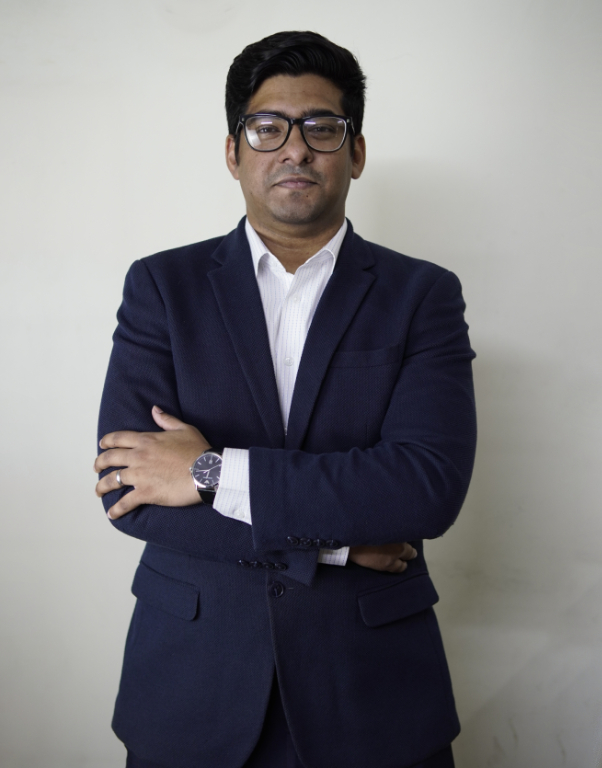
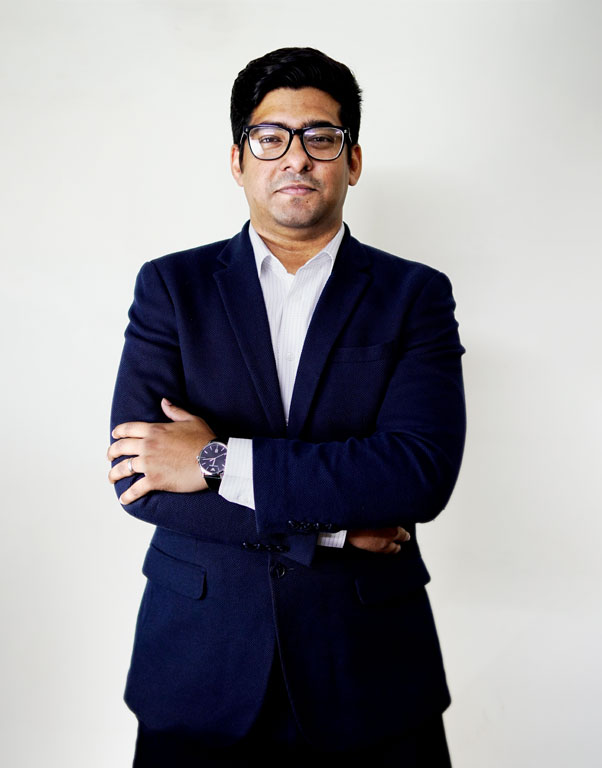
Update gallery images to local files and adjust image links

diff --git a/team.html b/team.html
@@ -96,6 +96,7 @@
               display: block;
               width: 100%;
               height: auto;
+              transition: opacity 0.4s ease-in-out;
             }
           
             /* Hover image positioned on top, initially invisible */
@@ -174,8 +175,8 @@
                     <div class="row align-items-center mb-5 xs-mb-30px">
                         <div class="col-12 text-center">
                             <div class="team-container1 mx-auto mb-3">
-                                <img style="border-radius: 25px;" id="team1" src="images/team-main.JPG" class="team-img" alt="Asadot Daullah">
-                                <img style="border-radius: 25px;" id="hoverTeam1" src="images/team-hover.JPG" class="hover-img" alt="Asadot Daullah Hover">
+                                <img style="border-radius: 25px;" id="team1" src="images/team_images/asad.jpg" class="team-img" alt="Asadot Daullah">
+                                <img style="border-radius: 25px;" id="hoverTeam1" src="images/team_images/asad.jpg" class="hover-img" alt="Asadot Daullah Hover">
                             </div>
                             <h5 class="text-dark-gray fw-600">Asadot Daullah</h5>
                             <p class="text-gray fw-400 font-20px" style="margin-top: -20px;">Managing Director</p>
@@ -186,16 +187,16 @@
                     <div class="row align-items-center mb-5 xs-mb-30px justify-content-center">
                         <div class="col-md-5 text-center">
                             <div class="team-container2 mx-auto mb-3">
-                                <img style="border-radius: 25px;" id="team2" src="images/team-main.JPG" class="team-img" alt="Mohammad Abu Torab">
-                                <img style="border-radius: 25px;" id="hoverTeam2" src="images/team-hover.JPG" class="hover-img" alt="Mohammad Abu Torab Hover">
+                                <img style="border-radius: 25px;" id="team2" src="images/team_images/torab.jpg" class="team-img" alt="Mohammad Abu Torab">
+                                <img style="border-radius: 25px;" id="hoverTeam2" src="images/team_images/torab.jpg" class="hover-img" alt="Mohammad Abu Torab Hover">
                             </div>
                             <h5 class="text-dark-gray fw-600">Mohammad Abu Torab</h5>
                             <p class="text-gray fw-400 font-20px" style="margin-top: -20px;">Director</p>
                         </div>
                         <div class="col-md-5 text-center">
                             <div class="team-container3 mx-auto mb-3">
-                                <img style="border-radius: 25px;" id="team3" src="images/team-main.JPG" class="team-img" alt="Rezaul Hasan">
-                                <img style="border-radius: 25px;" id="hoverTeam3" src="images/team-hover.JPG" class="hover-img" alt="Rezaul Hasan Hover">
+                                <img style="border-radius: 25px;" id="team3" src="images/team_images/ripon.jpg" class="team-img" alt="Rezaul Hasan">
+                                <img style="border-radius: 25px;" id="hoverTeam3" src="images/team_images/ripon.jpg" class="hover-img" alt="Rezaul Hasan Hover">
                             </div>
                             <h5 class="text-dark-gray fw-600">Rezaul Hasan</h5>
                             <p class="text-gray fw-400 font-20px" style="margin-top: -20px;">Director</p>
@@ -206,34 +207,34 @@
                     <div class="row align-items-center mb-5 xs-mb-30px">
                         <div class="col-md-3 text-center">
                             <div class="team-container4 mx-auto mb-3">
-                                <img style="border-radius: 25px;" id="team4" src="images/team-main.JPG" class="team-img" alt="William Amitav Dobey">
-                                <img style="border-radius: 25px;" id="hoverTeam4" src="images/team-hover.JPG" class="hover-img" alt="William Amitav Dobey Hover">
+                                <img style="border-radius: 25px;" id="team4" src="images/team_images/amit_stand.jpg" class="team-img" alt="William Amitav Dobey">
+                                <img style="border-radius: 25px;" id="hoverTeam4" src="images/team_images/amit_hold.jpg" class="hover-img" alt="William Amitav Dobey Hover">
                             </div>
                             <h5 class="text-dark-gray fw-600">William Amitav Dobey</h5>
                             <p class="text-gray fw-400 font-20px" style="margin-top: -20px;">Deputy General Manager</p>
                         </div>
                         <div class="col-md-3 text-center">
                             <div class="team-container5 mx-auto mb-3">
-                                <img style="border-radius: 25px;" id="team5" src="images/team-main.JPG" class="team-img" alt="Golam Mostafa Sumon">
-                                <img style="border-radius: 25px;" id="hoverTeam5" src="images/team-hover.JPG" class="hover-img" alt="Golam Mostafa Sumon Hover">
+                                <img style="border-radius: 25px;" id="team5" src="images/team_images/p1_stand.jpg" class="team-img" alt="Golam Mostafa Sumon">
+                                <img style="border-radius: 25px;" id="hoverTeam5" src="images/team_images/p1_hold.jpg" class="hover-img" alt="Golam Mostafa Sumon Hover">
                             </div>
                             <h5 class="text-dark-gray fw-600">Golam Mostafa Sumon</h5>
                             <p class="text-gray fw-400 font-20px" style="margin-top: -20px;">Asst. General Manager, Marketing</p>
                         </div>
                         <div class="col-md-3 text-center">
                             <div class="team-container6 mx-auto mb-3">
-                                <img style="border-radius: 25px;" id="team6" src="images/team-main.JPG" class="team-img" alt="Mohammad Arifur Rahman">
-                                <img style="border-radius: 25px;" id="hoverTeam6" src="images/team-hover.JPG" class="hover-img" alt="Mohammad Arifur Rahman Hover">
+                                <img style="border-radius: 25px;" id="team6" src="images/team_images/p2_stand.jpg" class="team-img" alt="Mohammad Arifur Rahman">
+                                <img style="border-radius: 25px;" id="hoverTeam6" src="images/team_images/p2_hold.jpg" class="hover-img" alt="Mohammad Arifur Rahman Hover">
                             </div>
                             <h5 class="text-dark-gray fw-600">Mohammad Arifur Rahman</h5>
                             <p class="text-gray fw-400 font-20px" style="margin-top: -20px;">Asst. Manager-Sales</p>
                         </div>
                         <div class="col-md-3 text-center">
                             <div class="team-container7 mx-auto mb-3">
-                                <img style="border-radius: 25px;" id="team7" src="images/team-main.JPG" class="team-img" alt="Md. A. J. Pahlawan">
-                                <img style="border-radius: 25px;" id="hoverTeam7" src="images/team-hover.JPG" class="hover-img" alt="Md. A. J. Pahlawan Hover">
+                                <img style="border-radius: 25px;" id="team7" src="images/team_images/p3_stand.jpg" class="team-img" alt="Md. A. J. Pahlawan">
+                                <img style="border-radius: 25px;" id="hoverTeam7" src="images/team_images/p3_hold.jpg" class="hover-img" alt="Md. A. J. Pahlawan Hover">
                             </div>
-                            <h5 class="text-dark-gray fw-600">Md. A. J. Pahlawan</h5>
+                            <h5 class="text-dark-gray fw-600">Md. A. J.<br>Pahlawan</h5>
                             <p class="text-gray fw-400 font-20px" style="margin-top: -20px;">Asst. Manager-Sales</p>
                         </div>
                     </div>
@@ -242,24 +243,24 @@
                     <div class="row align-items-center mb-5 xs-mb-30px justify-content-center">
                         <div class="col-md-4 text-center">
                             <div class="team-container8 mx-auto mb-3">
-                                <img style="border-radius: 25px;" id="team8" src="images/team-main.JPG" class="team-img" alt="Md. Hasiur Rahman Hadi">
-                                <img style="border-radius: 25px;" id="hoverTeam8" src="images/team-hover.JPG" class="hover-img" alt="Md. Hasiur Rahman Hadi Hover">
+                                <img style="border-radius: 25px;" id="team8" src="images/team_images/p4_stand.jpg" class="team-img" alt="Md. Hasiur Rahman Hadi">
+                                <img style="border-radius: 25px;" id="hoverTeam8" src="images/team_images/p4_hold.jpg" class="hover-img" alt="Md. Hasiur Rahman Hadi Hover">
                             </div>
                             <h5 class="text-dark-gray fw-600">Md. Hasiur Rahman Hadi</h5>
                             <p class="text-gray fw-400 font-20px" style="margin-top: -20px;">Asst. Manager-Sales</p>
                         </div>
                         <div class="col-md-4 text-center">
                             <div class="team-container9 mx-auto mb-3">
-                                <img style="border-radius: 25px;" id="team9" src="images/team-main.JPG" class="team-img" alt="Naim Mahmud">
-                                <img style="border-radius: 25px;" id="hoverTeam9" src="images/team-hover.JPG" class="hover-img" alt="Naim Mahmud Hover">
+                                <img style="border-radius: 25px;" id="team9" src="images/team_images/p5_stand.jpg" class="team-img" alt="Naim Mahmud">
+                                <img style="border-radius: 25px;" id="hoverTeam9" src="images/team_images/p5_hold.jpg" class="hover-img" alt="Naim Mahmud Hover">
                             </div>
                             <h5 class="text-dark-gray fw-600">Naim Mahmud</h5>
                             <p class="text-gray fw-400 font-20px" style="margin-top: -20px;">Officer, Marketing</p>
                         </div>
                         <div class="col-md-4 text-center">
                             <div class="team-container10 mx-auto mb-3">
-                                <img style="border-radius: 25px;" id="team10" src="images/team-main.JPG" class="team-img" alt="Nurul Karim">
-                                <img style="border-radius: 25px;" id="hoverTeam10" src="images/team-hover.JPG" class="hover-img" alt="Nurul Karim Hover">
+                                <img style="border-radius: 25px;" id="team10" src="images/team_images/p6_stand.jpg" class="team-img" alt="Nurul Karim">
+                                <img style="border-radius: 25px;" id="hoverTeam10" src="images/team_images/p6_hold.jpg" class="hover-img" alt="Nurul Karim Hover">
                             </div>
                             <h5 class="text-dark-gray fw-600">Nurul Karim</h5>
                             <p class="text-gray fw-400 font-20px" style="margin-top: -20px;">Sr. Officer-Sales</p>
@@ -270,18 +271,18 @@
                     <div class="row align-items-center mb-5 xs-mb-30px justify-content-center">
                         <div class="col-md-5 text-center">
                             <div class="team-container11 mx-auto mb-3">
-                                <img style="border-radius: 25px;" id="team11" src="images/team-main.JPG" class="team-img" alt="Md. Sheikh Nobi">
-                                <img style="border-radius: 25px;" id="hoverTeam11" src="images/team-hover.JPG" class="hover-img" alt="Md. Sheikh Nobi Hover">
+                                <img style="border-radius: 25px;" id="team11" src="images/team_images/albab_hold_bg.jpg" class="team-img" alt="Md. Sheikh Nobi">
+                                <img style="border-radius: 25px;" id="hoverTeam11" src="images/team_images/albab_stand_bg.jpg" class="hover-img" alt="Md. Sheikh Nobi Hover">
                             </div>
                             <h5 class="text-dark-gray fw-600">Md. Sheikh Nobi</h5>
                             <p class="text-gray fw-400 font-20px" style="margin-top: -20px;">Officer, Marketing</p>
                         </div>
                         <div class="col-md-5 text-center">
                             <div class="team-container12 mx-auto mb-3">
-                                <img style="border-radius: 25px;" id="team12" src="images/team_images/albab_stand.JPG" class="team-img" alt="Alabab Tanim">
-                                <img style="border-radius: 25px;" id="hoverTeam12" src="images/team_images/albab_hold.JPG" class="hover-img" alt="Alabab Tanim Hover">
+                                <img style="border-radius: 25px;" id="team12" src="images/team_images/albab_stand.JPG" class="team-img" alt="Albab Tanim">
+                                <img style="border-radius: 25px;" id="hoverTeam12" src="images/team_images/albab_hold.JPG" class="hover-img" alt="Albab Tanim Hover">
                             </div>
-                            <h5 class="text-dark-gray fw-600">Alabab Tanim</h5>
+                            <h5 class="text-dark-gray fw-600">Albab Tanim</h5>
                             <p class="text-gray fw-400 font-20px" style="margin-top: -20px;">Manager-Business Development</p>
                         </div>
                     </div>
@@ -290,32 +291,32 @@
                     <div class="row align-items-center mb-5 xs-mb-30px">
                       <div class="col-md-3 text-center">
                           <div class="team-container13 mx-auto mb-3">
-                              <img style="border-radius: 25px;" id="team13" src="images/team-main.JPG" class="team-img" alt="William Amitav Dobey">
-                              <img style="border-radius: 25px;" id="hoverTeam13" src="images/team-hover.JPG" class="hover-img" alt="William Amitav Dobey Hover">
+                              <img style="border-radius: 25px;" id="team13" src="images/team_images/p7_stand.jpg" class="team-img" alt="William Amitav Dobey">
+                              <img style="border-radius: 25px;" id="hoverTeam13" src="images/team_images/p7_hold.jpg" class="hover-img" alt="William Amitav Dobey Hover">
                           </div>
                           <h5 class="text-dark-gray fw-600">Rezaur Rahman</h5>
                           <p class="text-gray fw-400 font-20px" style="margin-top: -20px;">Manager</p>
                       </div>
                       <div class="col-md-3 text-center">
                           <div class="team-container14 mx-auto mb-3">
-                              <img style="border-radius: 25px;" id="team14" src="images/team-main.JPG" class="team-img" alt="Golam Mostafa Sumon">
-                              <img style="border-radius: 25px;" id="hoverTeam14" src="images/team-hover.JPG" class="hover-img" alt="Golam Mostafa Sumon Hover">
+                              <img style="border-radius: 25px;" id="team14" src="images/team_images/p8_stand.jpg" class="team-img" alt="Golam Mostafa Sumon">
+                              <img style="border-radius: 25px;" id="hoverTeam14" src="images/team_images/p8_hold.jpg" class="hover-img" alt="Golam Mostafa Sumon Hover">
                           </div>
                           <h5 class="text-dark-gray fw-600">Reshma Parvin</h5>
                           <p class="text-gray fw-400 font-20px" style="margin-top: -20px;">Officer, Marketing</p>
                       </div>
                       <div class="col-md-3 text-center">
                           <div class="team-container15 mx-auto mb-3">
-                              <img style="border-radius: 25px;" id="team15" src="images/team-main.JPG" class="team-img" alt="Mohammad Arifur Rahman">
-                              <img style="border-radius: 25px;" id="hoverTeam15" src="images/team-hover.JPG" class="hover-img" alt="Mohammad Arifur Rahman Hover">
+                              <img style="border-radius: 25px;" id="team15" src="images/team_images/p9_stand.jpg" class="team-img" alt="Mohammad Arifur Rahman">
+                              <img style="border-radius: 25px;" id="hoverTeam15" src="images/team_images/p9_hold.jpg" class="hover-img" alt="Mohammad Arifur Rahman Hover">
                           </div>
                           <h5 class="text-dark-gray fw-600">Md Sohel Rana</h5>
                           <p class="text-gray fw-400 font-20px" style="margin-top: -20px;">Deputy Manager, Accounts & Finance</p>
                       </div>
                       <div class="col-md-3 text-center">
                           <div class="team-container16 mx-auto mb-3">
-                              <img style="border-radius: 25px;" id="team16" src="images/team-main.JPG" class="team-img" alt="Md. A. J. Pahlawan">
-                              <img style="border-radius: 25px;" id="hoverTeam16" src="images/team-hover.JPG" class="hover-img" alt="Md. A. J. Pahlawan Hover">
+                              <img style="border-radius: 25px;" id="team16" src="images/team_images/p10_stand.jpg" class="team-img" alt="Md. A. J. Pahlawan">
+                              <img style="border-radius: 25px;" id="hoverTeam16" src="images/team_images/p10_hold.jpg" class="hover-img" alt="Md. A. J. Pahlawan Hover">
                           </div>
                           <h5 class="text-dark-gray fw-600">Md Mohiuddin Raju</h5>
                           <p class="text-gray fw-400 font-20px" style="margin-top: -20px;">Accountant</p>

diff --git a/gallery.html b/gallery.html
@@ -79,9 +79,9 @@
                           <!-- start gallery item -->
                           <li class="grid-item transition-inner-all">
                               <div class="gallery-box border-radius-6px">
-                                  <a href="https://placehold.co/800x946" data-group="lightbox-gallery" title="Lightbox gallery image title">
+                                  <a href="images/gallery/1.jpg" data-group="lightbox-gallery" title="Lightbox gallery image title">
                                       <div class="position-relative gallery-image bg-dark-gray overflow-hidden">
-                                          <img src="https://placehold.co/800x946" alt="" />
+                                          <img src="images/gallery/1.jpg" alt="" />
                                           <div class="d-flex align-items-center justify-content-center position-absolute top-0px left-0px w-100 h-100 gallery-hover move-bottom-top">
                                               <div class="d-flex align-items-center justify-content-center w-60px h-60px rounded-circle bg-white">
                                                   <i class="icon feather icon-feather-search icon-extra-medium text-dark-gray"></i>
@@ -95,9 +95,9 @@
                           <!-- start gallery item -->
                           <li class="grid-item transition-inner-all">
                               <div class="gallery-box border-radius-6px">
-                                  <a href="https://placehold.co/800x946" data-group="lightbox-gallery" title="Lightbox gallery image title">
+                                  <a href="images/gallery/2.jpg" data-group="lightbox-gallery" title="Lightbox gallery image title">
                                       <div class="position-relative gallery-image bg-dark-gray overflow-hidden">
-                                          <img src="https://placehold.co/800x946" alt="" />
+                                          <img src="images/gallery/2.jpg" alt="" />
                                           <div class="d-flex align-items-center justify-content-center position-absolute top-0px left-0px w-100 h-100 gallery-hover move-bottom-top">
                                               <div class="d-flex align-items-center justify-content-center w-60px h-60px rounded-circle bg-white">
                                                   <i class="icon feather icon-feather-search icon-extra-medium text-dark-gray"></i>
@@ -111,9 +111,9 @@
                           <!-- start gallery item -->
                           <li class="grid-item transition-inner-all">
                               <div class="gallery-box border-radius-6px">
-                                  <a href="https://placehold.co/800x946" data-group="lightbox-gallery" title="Lightbox gallery image title">
+                                  <a href="images/gallery/3.jpg" data-group="lightbox-gallery" title="Lightbox gallery image title">
                                       <div class="position-relative gallery-image bg-dark-gray overflow-hidden">
-                                          <img src="https://placehold.co/800x946" alt="" />
+                                          <img src="images/gallery/3.jpg" alt="" />
                                           <div class="d-flex align-items-center justify-content-center position-absolute top-0px left-0px w-100 h-100 gallery-hover move-bottom-top">
                                               <div class="d-flex align-items-center justify-content-center w-60px h-60px rounded-circle bg-white">
                                                   <i class="icon feather icon-feather-search icon-extra-medium text-dark-gray"></i>
@@ -127,9 +127,9 @@
                           <!-- start gallery item -->
                           <li class="grid-item transition-inner-all">
                               <div class="gallery-box border-radius-6px">
-                                  <a href="https://placehold.co/800x946" data-group="lightbox-gallery" title="Lightbox gallery image title">
+                                  <a href="images/gallery/4.jpg" data-group="lightbox-gallery" title="Lightbox gallery image title">
                                       <div class="position-relative gallery-image bg-dark-gray overflow-hidden">
-                                          <img src="https://placehold.co/800x946" alt="" />
+                                          <img src="images/gallery/4.jpg" alt="" />
                                           <div class="d-flex align-items-center justify-content-center position-absolute top-0px left-0px w-100 h-100 gallery-hover move-bottom-top">
                                               <div class="d-flex align-items-center justify-content-center w-60px h-60px rounded-circle bg-white">
                                                   <i class="icon feather icon-feather-search icon-extra-medium text-dark-gray"></i>
@@ -143,9 +143,9 @@
                           <!-- start gallery item -->
                           <li class="grid-item transition-inner-all">
                               <div class="gallery-box border-radius-6px">
-                                  <a href="https://placehold.co/800x946" data-group="lightbox-gallery" title="Lightbox gallery image title">
+                                  <a href="images/gallery/5.jpg" data-group="lightbox-gallery" title="Lightbox gallery image title">
                                       <div class="position-relative gallery-image bg-dark-gray overflow-hidden">
-                                          <img src="https://placehold.co/800x946" alt="" />
+                                          <img src="images/gallery/5.jpg" alt="" />
                                           <div class="d-flex align-items-center justify-content-center position-absolute top-0px left-0px w-100 h-100 gallery-hover move-bottom-top">
                                               <div class="d-flex align-items-center justify-content-center w-60px h-60px rounded-circle bg-white">
                                                   <i class="icon feather icon-feather-search icon-extra-medium text-dark-gray"></i>
